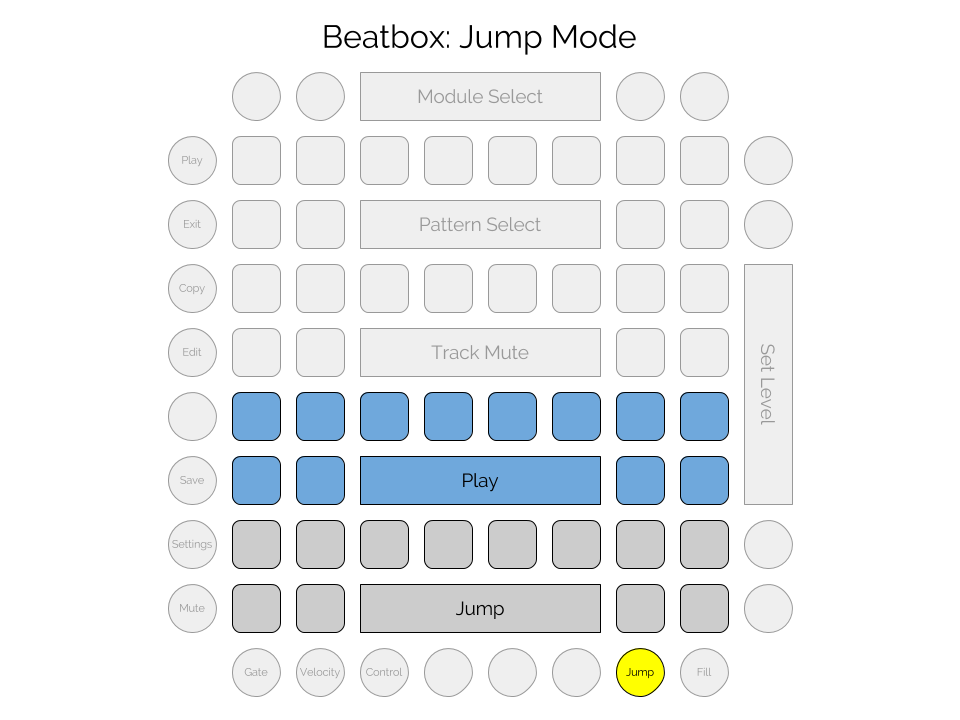
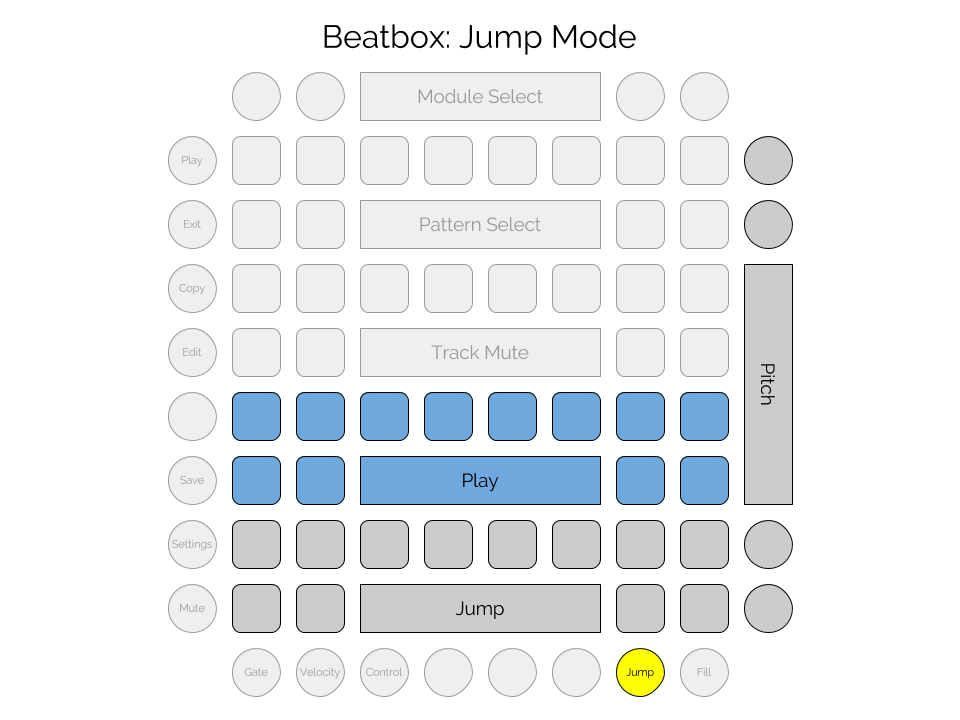
Beatbox: added momentary pitch control to jump mode. MidiModule: added random variability in velocity sent for note on

Changed region(s): [[0.75, 0.1833, 0.8438, 0.8861]]

diff --git a/src/main/java/net/perkowitz/issho/hachi/modules/beatbox/BeatDisplay.java b/src/main/java/net/perkowitz/issho/hachi/modules/beatbox/BeatDisplay.java
@@ -19,24 +19,18 @@ import static net.perkowitz.issho.hachi.modules.beatbox.BeatUtil.EditMode.JUMP;
  */
 public class BeatDisplay {
 
-    @Setter
-    private GridDisplay display;
-    @Getter
-    @Setter
-    private Map<Integer, Color> palette = BeatUtil.PALETTE_PINK;
-    @Getter
-    @Setter
-    private int currentFileIndex = 0;
-    @Setter
-    private boolean settingsView = false;
-    @Setter
-    private boolean isMuted = false;
-    @Setter
-    private Integer nextChainStart = null;
-    @Setter
-    private Integer nextChainEnd = null;
-    @Setter
-    private EditMode editMode = EditMode.GATE;
+    public enum ValueMode {
+        DEFAULT, HIGHLIGHT
+    }
+
+    @Setter private GridDisplay display;
+    @Getter @Setter private Map<Integer, Color> palette = BeatUtil.PALETTE_PINK;
+    @Getter @Setter private int currentFileIndex = 0;
+    @Setter private boolean settingsView = false;
+    @Setter private boolean isMuted = false;
+    @Setter private Integer nextChainStart = null;
+    @Setter private Integer nextChainEnd = null;
+    @Setter private EditMode editMode = EditMode.GATE;
 
 
     public BeatDisplay(GridDisplay display) {
@@ -246,11 +240,19 @@ public class BeatDisplay {
     }
 
     public void drawValue(int value, int maxValue) {
+        drawValue(value, maxValue, ValueMode.DEFAULT);
+    }
+
+    public void drawValue(int value, int maxValue, ValueMode valueMode) {
         int valueAsEight = (value * 8) / maxValue;
         for (int index = 0; index < 8; index++) {
             GridControl control = BeatUtil.valueControls.get(index);
             if ((7 - index) <= valueAsEight) {
-                control.draw(display, palette.get(BeatUtil.COLOR_VALUE_ON));
+                Color color = palette.get(BeatUtil.COLOR_VALUE_ON);
+                if (valueMode == ValueMode.HIGHLIGHT) {
+                    color = palette.get(BeatUtil.COLOR_HIGHLIGHT);
+                }
+                control.draw(display, color);
             } else {
                 control.draw(display, palette.get(BeatUtil.COLOR_VALUE_OFF));
             }

diff --git a/src/main/java/net/perkowitz/issho/hachi/modules/beatbox/BeatModule.java b/src/main/java/net/perkowitz/issho/hachi/modules/beatbox/BeatModule.java
@@ -458,6 +458,7 @@ public class BeatModule extends MidiModule implements Module, Clockable, GridLis
             beatDisplay.drawEditMode();
             beatDisplay.drawSteps(memory);
             beatDisplay.drawTracks(memory, true);
+            beatDisplay.drawValue(7, 7, BeatDisplay.ValueMode.HIGHLIGHT);
 
         } else if (fillControl.equals(control)) {
             patternFill = BeatPatternFill.chooseRandom(memory.getPlayingPattern());
@@ -476,6 +477,11 @@ public class BeatModule extends MidiModule implements Module, Clockable, GridLis
                     BeatControlStep controlStep = memory.getSelectedPattern().getControlTrack().getStep(selectedControlStep);
                     controlStep.setPitchBendByIndex(7 - index);
                     beatDisplay.drawValue(controlStep.getPitchBend(), MidiUtil.MIDI_PITCH_BEND_MAX);
+                    break;
+                case JUMP:
+                    int pitchBend = BeatControlStep.pitchBendByIndex(7 - index);
+                    sendMidiPitchBend(memory.getMidiChannel(), pitchBend);
+                    beatDisplay.drawValue(7 - index, 7, BeatDisplay.ValueMode.HIGHLIGHT);
                     break;
             }
 
@@ -566,6 +572,14 @@ public class BeatModule extends MidiModule implements Module, Clockable, GridLis
         } else if (fillControl.equals(control)) {
             patternFill = null;
             beatDisplay.drawFillControl(false);
+
+        } else if (valueControls.contains(control)) {
+            switch (editMode) {
+                case JUMP:
+                    sendMidiPitchBendZero(memory.getMidiChannel());
+                    beatDisplay.drawValue(7, 7, BeatDisplay.ValueMode.HIGHLIGHT);
+                    break;
+            }
 
         }
 

diff --git a/src/main/java/net/perkowitz/issho/hachi/modules/MidiModule.java b/src/main/java/net/perkowitz/issho/hachi/modules/MidiModule.java
@@ -22,6 +22,7 @@ public class MidiModule extends BasicModule implements Receiver {
     protected Transmitter inputTransmitter;
     protected Receiver outputReceiver;
     protected boolean isMuted;
+    protected int velocityVariability = 10;
 
 
     public MidiModule(Transmitter inputTransmitter, Receiver outputReceiver) {
@@ -54,13 +55,18 @@ public class MidiModule extends BasicModule implements Receiver {
     }
 
     protected void sendMidiNote(int channel, int noteNumber, int velocity) {
-//        System.out.printf("MidiModule Note: ch=%d, note=%d, vel=%d\n", channel, noteNumber, velocity);
 
         if (isMuted && velocity > 0) return;
 
+        int v = velocity;
+        if (velocityVariability > 0 && velocity != 0) {
+            v = velocity + (int)(Math.random() * 2 * velocityVariability) - velocityVariability;
+            v = Math.min(127, Math.max(0, v));
+        }
+
         try {
             ShortMessage noteMessage = new ShortMessage();
-            noteMessage.setMessage(ShortMessage.NOTE_ON, channel, noteNumber, velocity);
+            noteMessage.setMessage(ShortMessage.NOTE_ON, channel, noteNumber, v);
             outputReceiver.send(noteMessage, -1);
 
         } catch (InvalidMidiDataException e) {

diff --git a/src/main/java/net/perkowitz/issho/hachi/modules/beatbox/BeatControlStep.java b/src/main/java/net/perkowitz/issho/hachi/modules/beatbox/BeatControlStep.java
@@ -39,9 +39,7 @@ public class BeatControlStep {
     }
 
     public void setPitchBendByIndex(int index) {
-        if (index < 0) { index = 0; }
-        if (index >= CONTROL_VALUES.length) { index = CONTROL_VALUES.length - 1; }
-        pitchBend = CONTROL_VALUES[index];
+        pitchBend = pitchBendByIndex(index);
     }
 
     /***** static methods **************************/
@@ -51,6 +49,12 @@ public class BeatControlStep {
         newStep.enabled = step.enabled;
         newStep.pitchBend = step.pitchBend;
         return newStep;
+    }
+
+    public static int pitchBendByIndex(int index) {
+        if (index < 0) { index = 0; }
+        if (index >= CONTROL_VALUES.length) { index = CONTROL_VALUES.length - 1; }
+        return CONTROL_VALUES[index];
     }
 
 }

diff --git a/doc/hachi/modules/beat.md b/doc/hachi/modules/beat.md
@@ -70,7 +70,9 @@ Jump mode is more of a "performance" mode. In jump mode, tapping any of the step
 advancing normally from there. The sequence will reset to the first step at the next reset. Tapping any of the track select controls
 will play the corresponding sound rather than selecting the track. Also in jump mode, Beatbox will display a clock, where the current
 step being played will be lit up, and a counter will keep track of the measure count up to 8. This is useful for knowing when
-to trigger fills and watching what steps play during jumps and fills.
+to trigger fills and watching what steps play during jumps and fills. Jump mode also allows "momentary pitch" control. Holding down
+the value buttons will send a midi pitch bend value just as in pitch mode, but pitch bend will be reset to zero when you release
+the button.
 
 
 ### Fill
